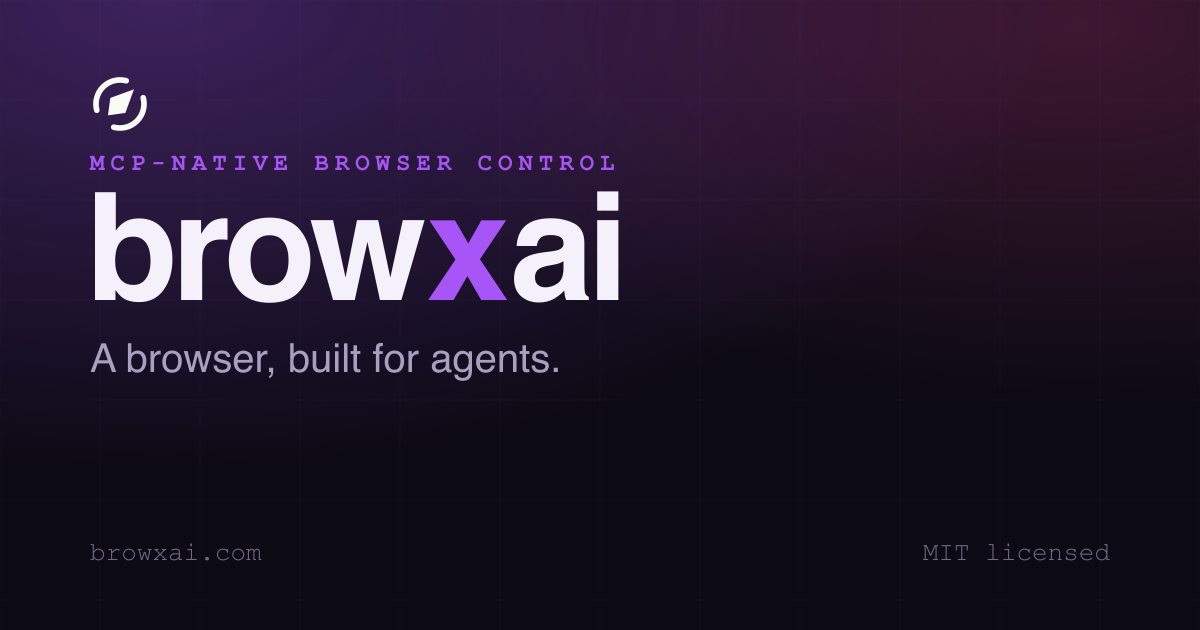
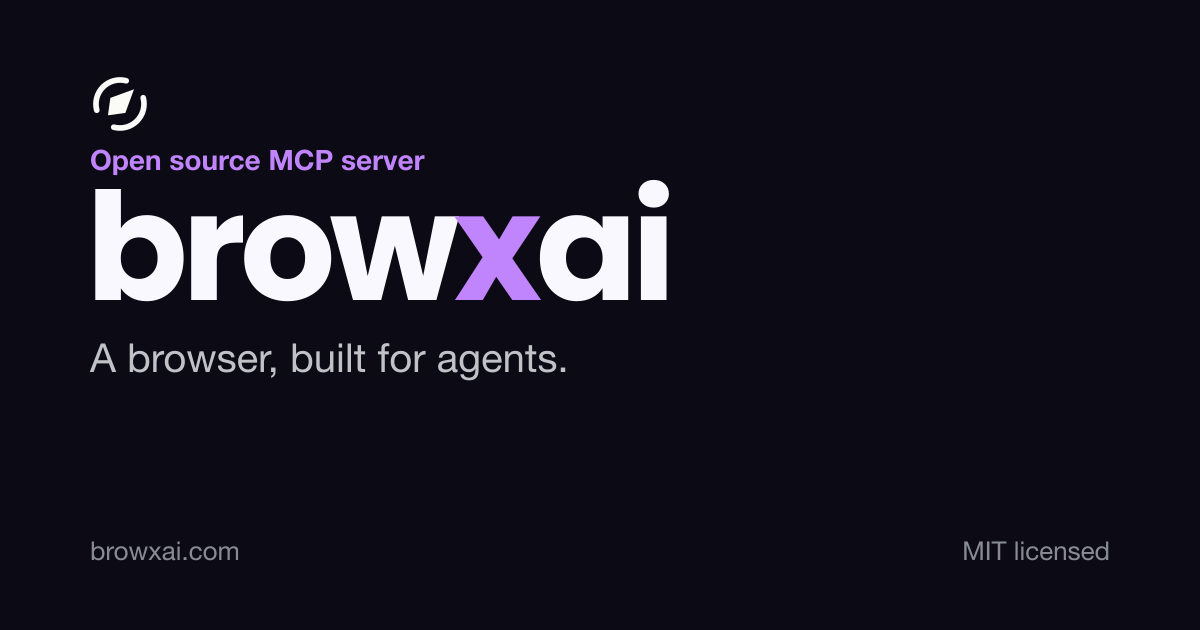
fix(website): flat open graph card, no glow or grid (#191)
* fix(website): flat open graph card, no glow or grid (BRO-152)

* test: copy all guard modules into the temp tree, cover the og card

---------

diff --git a/test/scripts/_guard-tree.ts b/test/scripts/_guard-tree.ts
@@ -4,7 +4,15 @@
 // itself is never scanned.
 
 import { spawnSync } from "node:child_process";
-import { cpSync, mkdirSync, mkdtempSync, rmSync, writeFileSync } from "node:fs";
+import {
+  cpSync,
+  existsSync,
+  mkdirSync,
+  mkdtempSync,
+  readdirSync,
+  rmSync,
+  writeFileSync,
+} from "node:fs";
 import { tmpdir } from "node:os";
 import { dirname, join } from "node:path";
 import { fileURLToPath } from "node:url";
@@ -18,18 +26,30 @@ export function cleanTrees(): void {
   for (const root of roots.splice(0)) rmSync(root, { recursive: true, force: true });
 }
 
-/** A fresh temp tree holding `files` (relative path to content) and copies of
- *  `scripts` (repo-relative paths, copied to the same path in the tree). */
+/** Every guard module a script can import: scripts/*.mjs and the lib folders.
+ *  Copied wholesale, so a new helper module cannot go missing from the tree. */
+function copyGuardModules(root: string): void {
+  mkdirSync(join(root, "scripts"), { recursive: true });
+  for (const name of readdirSync(join(REPO, "scripts")))
+    if (name.endsWith(".mjs")) cpSync(join(REPO, "scripts", name), join(root, "scripts", name));
+  for (const dir of ["scripts/lib", "website/scripts/lib"])
+    if (existsSync(join(REPO, dir))) cpSync(join(REPO, dir), join(root, dir), { recursive: true });
+}
+
+/** A fresh temp tree holding `files` (relative path to content), every guard
+ *  module (see copyGuardModules) and copies of `scripts` (repo-relative paths,
+ *  copied to the same path in the tree). `files` win over the copies. */
 export function makeTree(files: Record<string, string>, scripts: string[] = []): string {
   const root = mkdtempSync(join(tmpdir(), "browxai-guard-"));
   roots.push(root);
-  for (const [path, content] of Object.entries(files)) {
-    mkdirSync(dirname(join(root, path)), { recursive: true });
-    writeFileSync(join(root, path), content);
-  }
+  copyGuardModules(root);
   for (const path of scripts) {
     mkdirSync(dirname(join(root, path)), { recursive: true });
     cpSync(join(REPO, path), join(root, path));
+  }
+  for (const [path, content] of Object.entries(files)) {
+    mkdirSync(dirname(join(root, path)), { recursive: true });
+    writeFileSync(join(root, path), content);
   }
   return root;
 }

diff --git a/test/scripts/design-guards.test.ts b/test/scripts/design-guards.test.ts
@@ -4,18 +4,16 @@
 // asserts exit 0, so a guard that always fails cannot pass here either.
 // scripts/check-layout.mjs needs a browser and is covered by the browser job.
 
+import { readFileSync } from "node:fs";
+import { join } from "node:path";
 import { afterEach, describe, expect, it } from "vitest";
-import { cleanTrees, makeTree, runNode } from "./_guard-tree.js";
+import { REPO, cleanTrees, makeTree, runNode } from "./_guard-tree.js";
 
 afterEach(cleanTrees);
 
 const SCRIPT = "scripts/check-design-rules.mjs";
-const SCRIPTS = [
-  SCRIPT,
-  "scripts/design-type-rules.mjs",
-  "website/scripts/doc-pipeline.mjs",
-  "website/scripts/lib/strip-code.mjs",
-];
+const SCRIPTS = [SCRIPT, "website/scripts/doc-pipeline.mjs"];
+const OG = "website/scripts/gen-og.mjs";
 const DOCS = [
   "tool-reference",
   "threat-model",
@@ -168,5 +166,23 @@ describe("check-design-rules: css", () => {
   it("flags a missing layout guard", () => {
     const css = BASE_CSS.replace(".sl-markdown-content code { overflow-wrap: anywhere; }", "");
     expectRule("code-wrap", { "website/src/styles/brand.css": css });
+  });
+});
+
+describe("check-design-rules: share card", () => {
+  const realOg = readFileSync(join(REPO, OG), "utf8");
+
+  it("passes on the real gen-og.mjs", () => {
+    const { code, out } = check({ [OG]: realOg });
+    expect(out).toContain("check-design-rules: ok");
+    expect(code).toBe(0);
+  });
+
+  it("fails on a gradient planted in gen-og.mjs, naming the rule", () => {
+    const planted = `${realOg}\nconst fx = '<radialGradient id="g1"/>';\n`;
+    const { code, out } = check({ [OG]: planted });
+    expect(code).toBe(1);
+    expect(out).toContain("website/scripts/gen-og.mjs:");
+    expect(out).toContain(": no-gradient-glow:");
   });
 });
